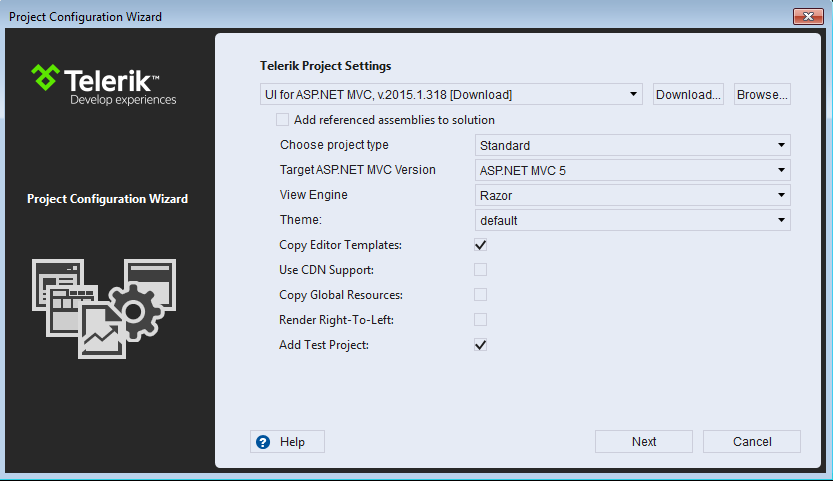
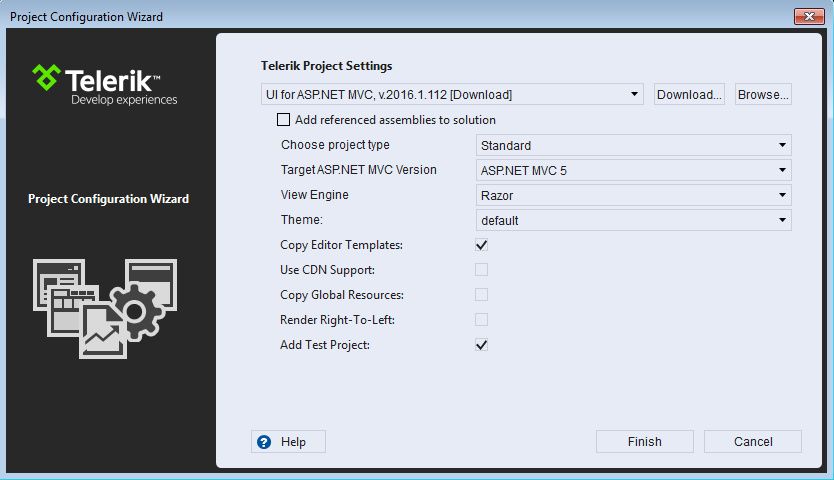
Update New Project wizard page to meet DataAccess page removal. Updated New Project Wizard screenshot.

diff --git a/docs/aspnet-mvc/vs-integration/new-project-wizard.md b/docs/aspnet-mvc/vs-integration/new-project-wizard.md
@@ -25,18 +25,6 @@ Using the options in the Telerik UI for ASP.NET MVC Project Settings page you ca
 -   **Copy Global Resources** - Copy the localization files to ~/Scripts/kendo/{version}/cultures
 -   **Add Test Project** - Choose whether to add a test project to the solution.
 
-## Data Access Settings
-
-![Data Access Settings](/aspnet-mvc/vs-integration/images/data_access.png)
-
-On the next step the New Project wizard's Data Access page offers you initialize the creation of your data access layer using Telerik OpenAccess ORM. You are given the following options:
-
-- **Create OpenAccess Fluent Library Project** - After you choose this option an OpenAccess ORM project will be added, enabling you to create your object mapping in a declarative way. With this Code-Only approach all the necessary persistent classes and mappings are defined manually – the project will initially contain only a sample declaration to get you started. You can find more information about the Fluent Library project type [here](http://www.telerik.com/help/openaccess-orm/getting-started-fluent-mapping-overview.html).
-- **Create OpenAccess Domain Model Library Project** - The Domain Model is an auto-generated and editable diagram of your persistent classes. This option will start the Add Domain Model wizard after exiting Project Configuration Wizard, so that you can configure your data layer without writing a single line of code. You can create a new model and define you classes later using the tools that OpenAccess Visual Designer is offering, or retrieve the schema of an already designed database and generate classes for the selected tables and views. The different scenarios are described in the articles below:
-    - [Create an empty model - Model First](http://www.telerik.com/help/openaccess-orm/getting-started-root-getting-started-with-update-schema-tools.html)
-    - [Generate the domain model from a database - Database First](http://www.telerik.com/help/openaccess-orm/getting-started-root-generating-model-mappings-taking-database-first-approach.html)
-
-- **Skip creating an OpenAccess Model Library Project** - No data access project will be added.
 
 ## Create a New Kendo UI Web Application
 
